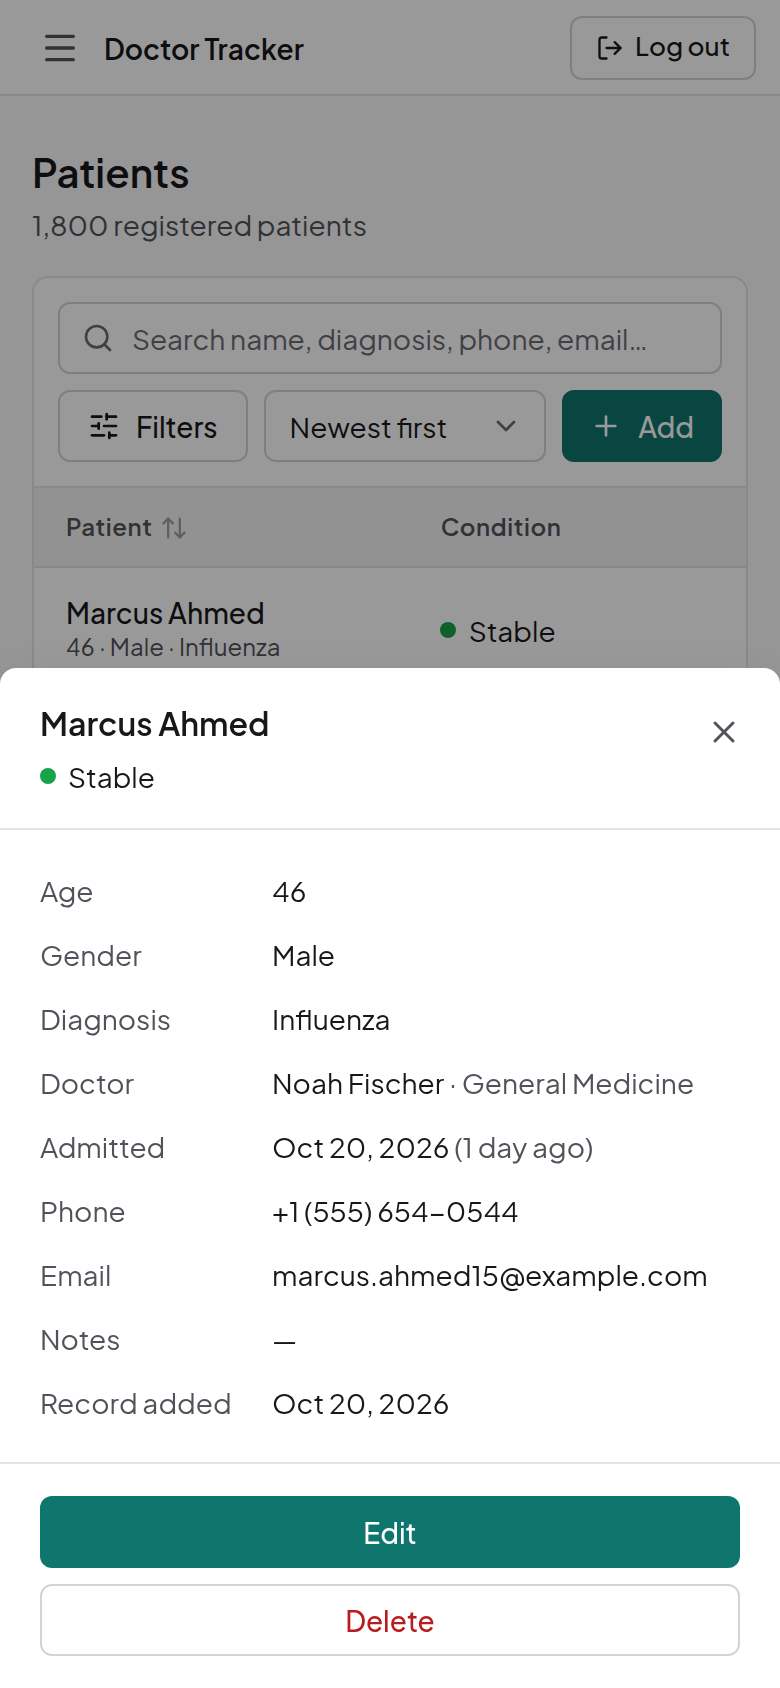
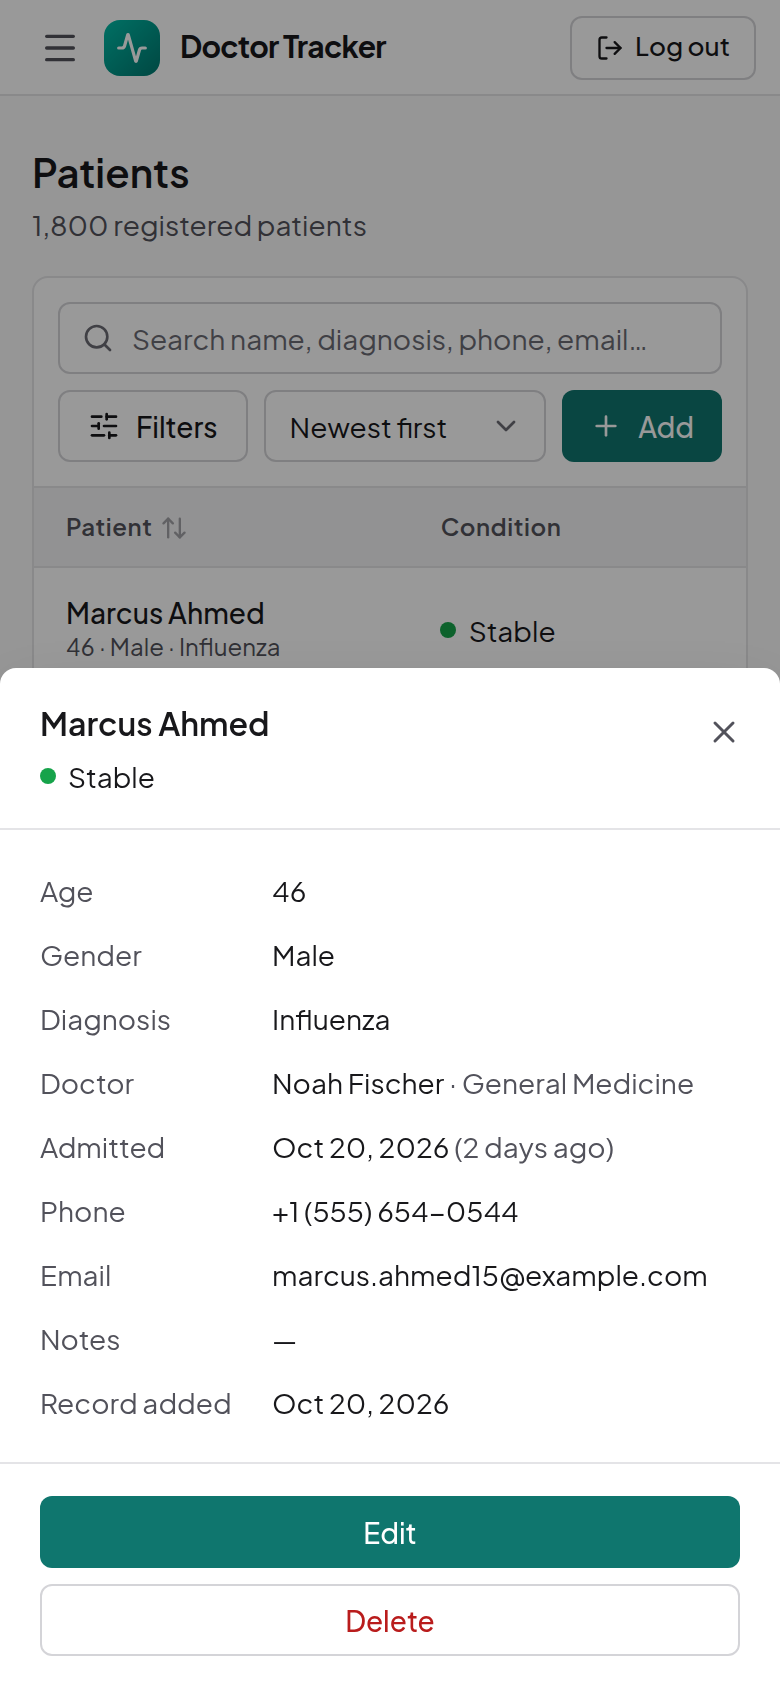
README: describe the branded landing and sign-in pages; refresh screenshots

Changed region(s): [[0.1231, 0.0, 0.4923, 0.0616], [0.6154, 0.6777, 0.7692, 0.7085]]

diff --git a/README.md b/README.md
@@ -15,6 +15,8 @@ The project is two separate services: a **Next.js frontend** and a **standalone 
 | Admin | `admin@doctortracker.dev` | `Admin@12345` | Everything |
 | Viewer | `viewer@doctortracker.dev` | `Viewer@12345` | Read only. Write controls are hidden and the API answers writes with 403. |
 
+The sign-in page has Admin and Viewer buttons that fill these in.
+
 ### Contents
 
 - [Features](#features)
@@ -40,7 +42,7 @@ The project is two separate services: a **Next.js frontend** and a **standalone 
 | **A doctor's patients** | The doctor page shows contact details, the patient mix by condition, and that doctor's own searchable, filterable, paginated patient list. **Add a patient under the doctor** with `POST /doctors/:id/patients`. **Remove a patient from the doctor's list** with `DELETE /doctors/:id/patients/:patientId`, which only succeeds if the patient belongs to that doctor. A doctor who still has patients can't be deleted; the UI says so before you try. |
 | **Patients** | List, create, **edit** (including reassigning the doctor) and delete. **Search** by name, diagnosis, phone or email. **Filters**: condition, doctor, gender, age range and admission-date range. **Sorting** and **pagination**. Tapping a row opens a read-only details panel with Edit and Delete for admins. |
 | **Dashboard** | Four stat tiles: doctors, patients, critical patients, and admissions in the selected period compared with the previous period. Three charts: **patients per doctor** (top 10), **patients over time** (admissions per day, with a 7D / 30D / 90D toggle) and **patients by condition**. Bars link to the doctor or to the filtered patient list, and every chart can switch to a table view. |
-| **UI** | A fixed sidebar (Dashboard, Doctors, Patients) and a slim top bar with the user and Log out. On phones the sidebar becomes a drawer. Lists put the toolbar (search, filters, sort, primary action) above the table and pagination below; phones show fewer columns. Create and edit open in dialogs, deletes ask for confirmation, and results show as toasts. Every list and chart has a loading skeleton, an empty state and an error state with retry. |
+| **UI** | A public landing page and a split-screen sign-in page share the brand: a dark teal panel, the logo and a product preview. Inside the app, a fixed sidebar (Dashboard, Doctors, Patients) and a slim top bar with the user and Log out. On phones the sidebar becomes a drawer. Lists put the toolbar (search, filters, sort, primary action) above the table and pagination below; phones show fewer columns. Create and edit open in dialogs, deletes ask for confirmation, and results show as toasts. Every list and chart has a loading skeleton, an empty state and an error state with retry. |
 | **Validation and errors** | Zod on both sides. The API rejects unknown fields (no mass assignment), invalid ids (400), duplicates (409) and malformed JSON, all in one error format that the forms map back onto fields. |
 
 ---
@@ -266,7 +268,7 @@ List responses have the shape `{ data: T[], meta: { page, limit, total, totalPag
 - **One dashboard endpoint.** `/stats/overview` runs its queries in parallel and returns everything the page needs. The aggregations are shaped to be answered from indexes alone (next section). `$lookup` runs after `$limit`, so only 10 doctors are joined. The result is cached in-process for 60 seconds; concurrent requests share one in-flight computation, and every write through the API clears the cache.
 - **Accurate patient counts.** Instead of a denormalized `patientCount` that can drift, the doctors list counts patients only for the doctors on the current page, with one covered `$group` on the `{doctor, …}` index.
 - **Accessible primitives without a UI library.** The native `<dialog>` element (modal, side panel and drawer variants) gives a browser-managed focus trap, an inert background and Escape to close. The doctor picker follows the WAI-ARIA combobox pattern, focus rings are visible, conditions always show a text label next to the colored dot, and every chart has a table view. An axe-core audit at 390, 768, 1024, 1280 and 1440 px reports no violations.
-- **A deliberately plain UI.** One font, neutral greys and 1 px borders. One accent color, used only for the primary button and the active nav item. Status colors encode patient condition and nothing else, always next to a text label or legend. There's a single light theme, so every screen is tested in the one theme users actually get.
+- **Branded entry, plain workspace.** The landing and sign-in pages carry the brand: a dark teal panel with soft glows, the logo, and real screenshots of the app. The screens people work in stay deliberately plain: one font, neutral greys, 1 px borders, and one accent color used only for primary buttons and the active nav item. Status colors encode patient condition and nothing else, always next to a text label or legend. There's a single light theme, so every screen is tested in the one theme users actually get.
 - **Next.js 16 Cache Components.** The app shells are prerendered at build time. Request-dependent pieces (`useSearchParams`, `usePathname` on dynamic routes) sit inside Suspense boundaries. Session-dependent UI renders only after hydration, which avoids server/client mismatches.
 
 ---
@@ -366,6 +368,10 @@ Screenshots come from the production build (`next build && next start`) with the
 |---|---|---|
 | ![Mobile doctor profile](docs/screenshots/mobile-doctor-profile.png) | ![Mobile patients](docs/screenshots/mobile-patients.png) | ![Mobile patient details](docs/screenshots/mobile-patient-details.png) |
 
+| Landing page | Sign in |
+|---|---|
+| ![Mobile landing page](docs/screenshots/mobile-landing.png) | ![Mobile sign in](docs/screenshots/mobile-login.png) |
+
 ---
 
 ## Testing
@@ -432,13 +438,14 @@ The frontend is checked with `tsc` and ESLint (`next/core-web-vitals` plus TypeS
     ├── src/
     │   ├── proxy.ts              # route protection (JWT verification)
     │   ├── app/                  # routes only: / (landing), login, (app)/dashboard, doctors, doctors/[id], patients
+    │   ├── assets/               # product screenshots shown on the landing page
     │   ├── features/             # domain code: data hooks and components per feature
     │   │   └── auth/  dashboard/  doctors/  patients/
     │   ├── components/
     │   │   ├── ui/               # button, input, select, dialog, table, pagination, states, …
     │   │   ├── filters/          # list toolbar, filter panel, chips, date range
     │   │   ├── charts/           # chart card (loading, empty, error, table view), tooltip
-    │   │   └── layout/           # sidebar, top bar, nav, page skeletons
+    │   │   └── layout/           # logo, brand backdrop, sidebar, top bar, nav, page skeletons
     │   ├── hooks/                # URL state, debounce, hydration
     │   └── lib/                  # API client, query client and keys, constants, utils
     └── Dockerfile
